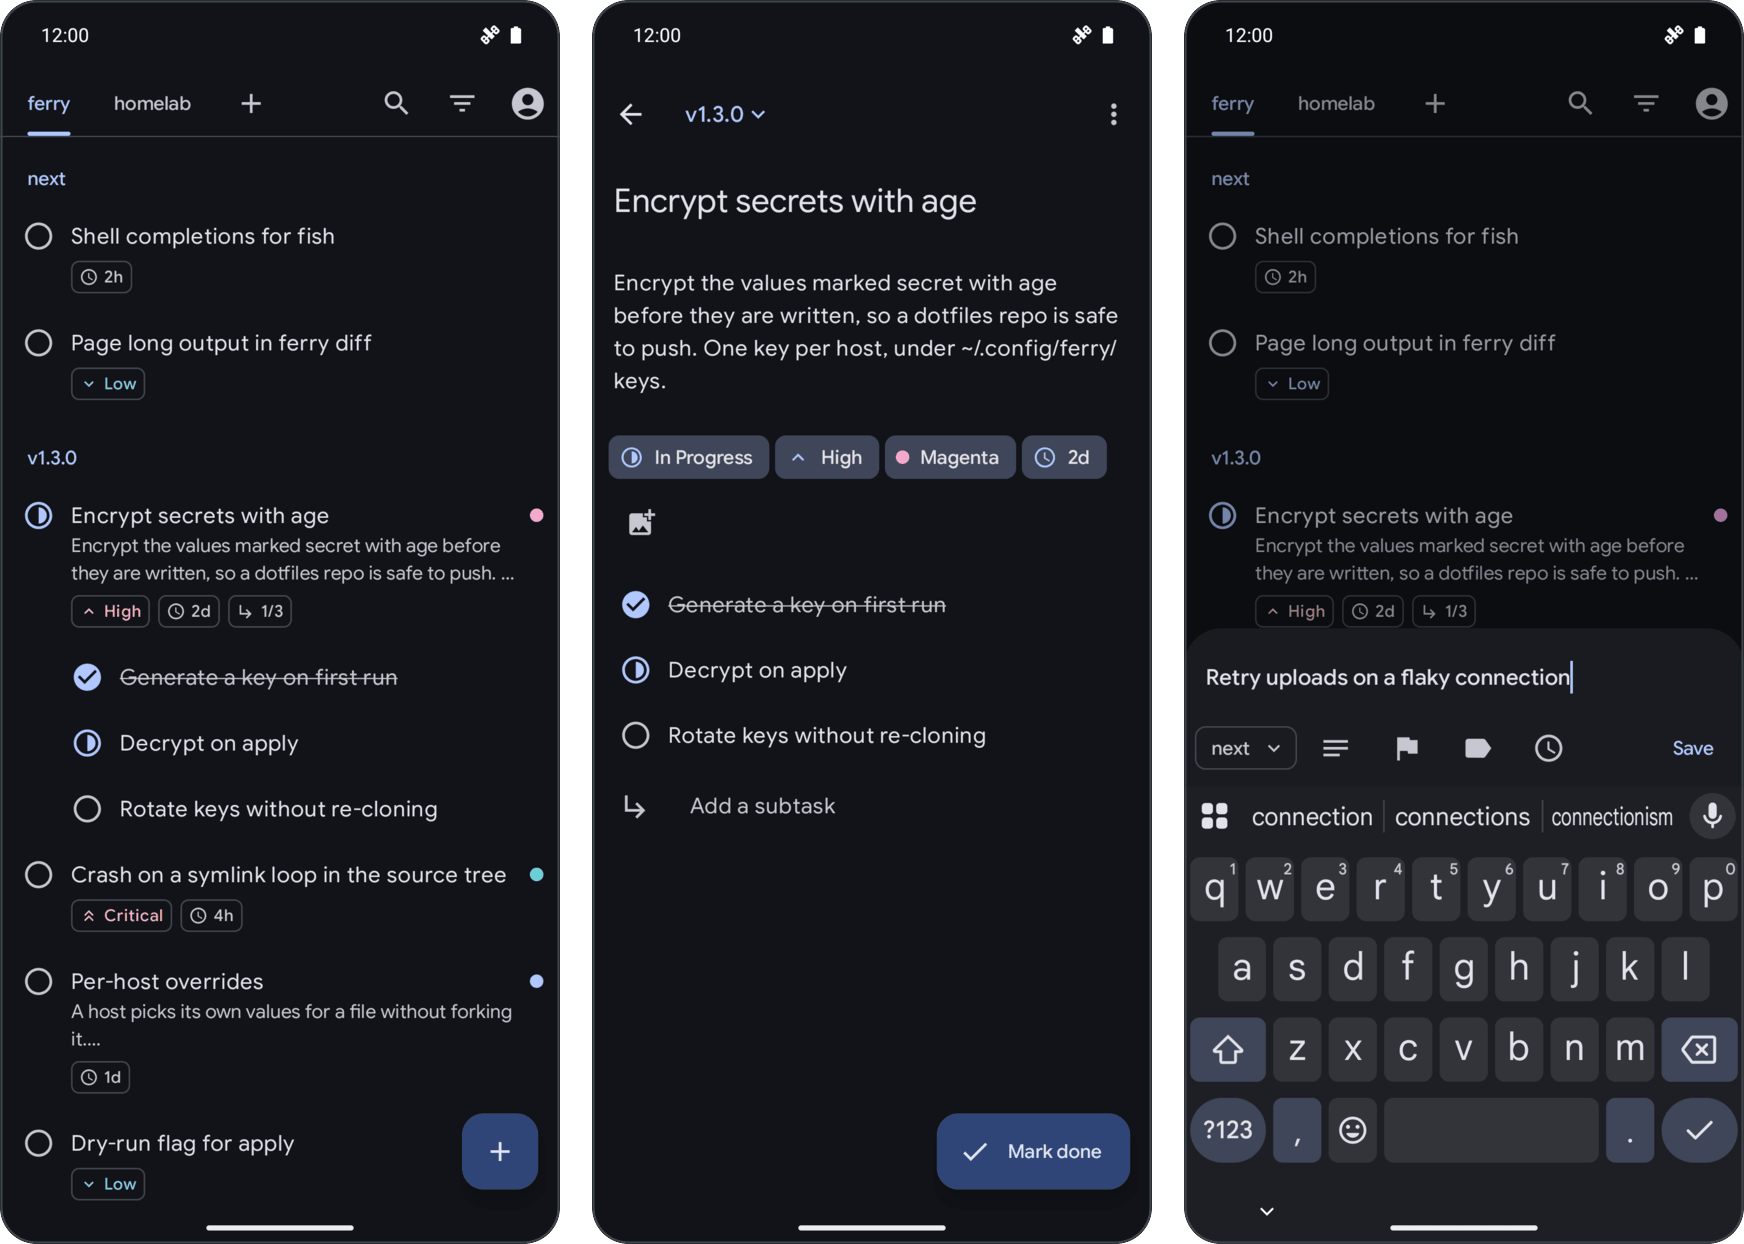
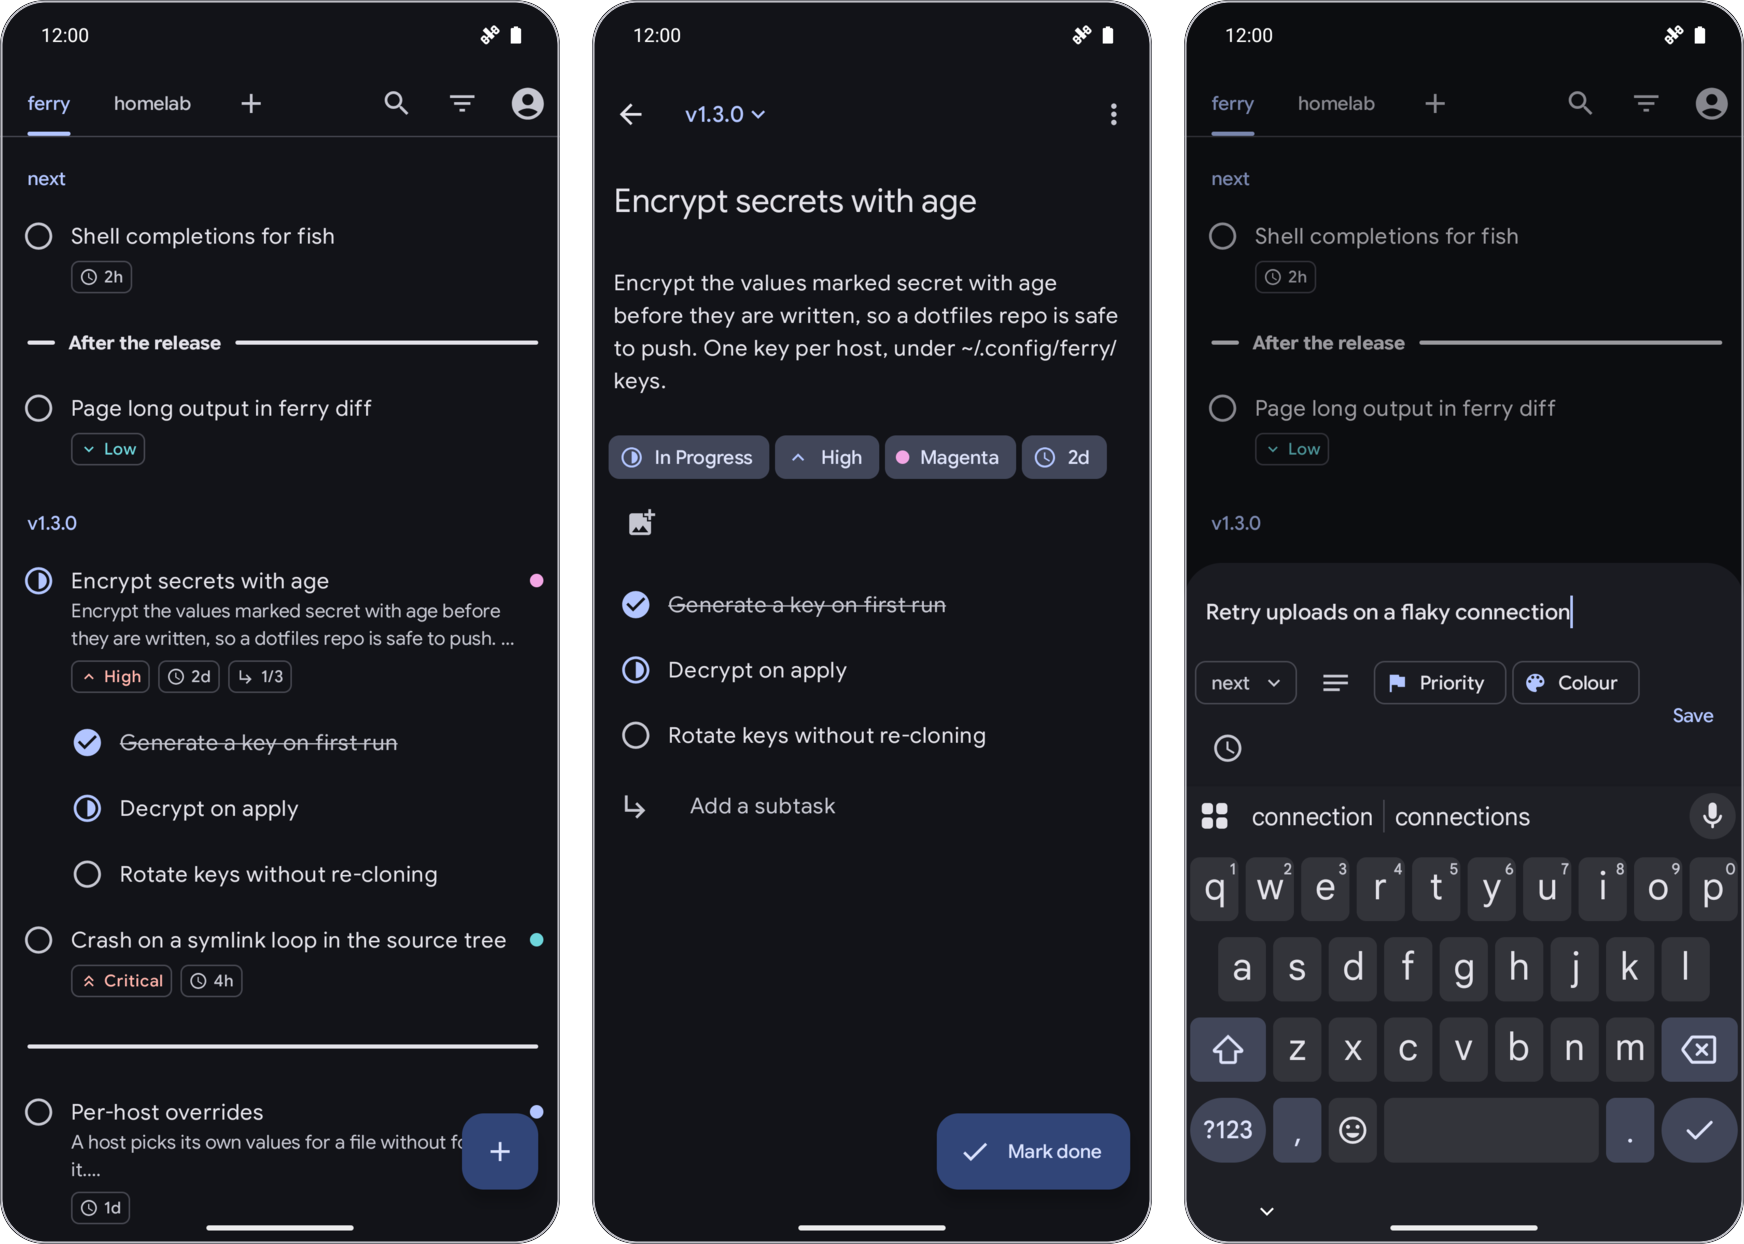
feat(native): terminal-style separators, worded priority and colour

diff --git a/native/android/app/src/main/java/io/github/ilyasturki/ordo/compose/ui/task/TaskScreen.kt b/native/android/app/src/main/java/io/github/ilyasturki/ordo/compose/ui/task/TaskScreen.kt
@@ -82,6 +82,7 @@ import io.github.ilyasturki.ordo.compose.ui.ViewerKey
 import io.github.ilyasturki.ordo.compose.ui.home.Picker
 import io.github.ilyasturki.ordo.compose.ui.home.StatusIcon
 import io.github.ilyasturki.ordo.compose.ui.home.TagDot
+import io.github.ilyasturki.ordo.compose.ui.home.WordChip
 import io.github.ilyasturki.ordo.compose.ui.home.plainFieldColors
 import io.github.ilyasturki.ordo.compose.ui.rememberFeedback
 import kotlinx.coroutines.Dispatchers
@@ -380,12 +381,12 @@ private fun Properties(
     val id = task.id
     val statusSet = task.status == Status.IN_PROGRESS || task.status == Status.CANCELLED
     @Composable
-    fun Field(key: String, set: Boolean, icon: androidx.compose.ui.graphics.vector.ImageVector, add: String, label: String, leading: @Composable () -> Unit, picker: @Composable () -> Unit) {
+    fun Field(key: String, set: Boolean, icon: androidx.compose.ui.graphics.vector.ImageVector, add: String, label: String, leading: @Composable () -> Unit, word: Boolean = false, picker: @Composable () -> Unit) {
         Box {
-            if (set) {
-                InputChip(selected = true, onClick = { setMenu(key) }, label = { Text(label) }, leadingIcon = leading)
-            } else {
-                IconButton(onClick = { setMenu(key) }) { Icon(icon, add, tint = MaterialTheme.colorScheme.onSurfaceVariant) }
+            when {
+                set -> InputChip(selected = true, onClick = { setMenu(key) }, label = { Text(label) }, leadingIcon = leading)
+                word -> WordChip(icon, add) { setMenu(key) }
+                else -> IconButton(onClick = { setMenu(key) }) { Icon(icon, add, tint = MaterialTheme.colorScheme.onSurfaceVariant) }
             }
             picker()
         }
@@ -398,10 +399,10 @@ private fun Properties(
         Field("status", statusSet, Icons.status(task.status), "Status: ${Status.label(task.status)}", Status.label(task.status), { Icon(Icons.status(task.status), null, Modifier.size(18.dp)) }) {
             Picker(menu == "status", { setMenu("") }, Status.all, Status::label, { edit(Ops.status(id, it), false) }, leading = { Icon(Icons.status(it), null) })
         }
-        Field("priority", task.priority != "", Icons.Flag, "Add a priority", Priority.label(task.priority), { Icon(Icons.priority(task.priority), null, Modifier.size(18.dp)) }) {
-            Picker(menu == "priority", { setMenu("") }, Priority.all + "", Priority::label, { edit(Ops.priority(id, it), true) })
+        Field("priority", task.priority != "", Icons.Flag, "Priority", Priority.label(task.priority), { Icon(Icons.priority(task.priority), null, Modifier.size(18.dp)) }, word = true) {
+            Picker(menu == "priority", { setMenu("") }, Priority.all + "", Priority::label, { edit(Ops.priority(id, it), true) }, leading = { if (it != "") Icon(Icons.priority(it), null) })
         }
-        Field("tag", task.tagColor != "", Icons.Label, "Add a tag", Tags.label(task.tagColor), { TagDot(task.tagColor) }) {
+        Field("tag", task.tagColor != "", Icons.Palette, "Colour", Tags.label(task.tagColor), { TagDot(task.tagColor) }, word = true) {
             Picker(menu == "tag", { setMenu("") }, Tags.all + "", Tags::label, { edit(Ops.tag(id, it), true) }, leading = { if (it != "") TagDot(it) })
         }
         Field("estimate", task.estimateMinutes > 0, Icons.Schedule, "Add an estimate", Estimates.format(task.estimateMinutes), { Icon(Icons.Schedule, null, Modifier.size(18.dp)) }) {

diff --git a/native/android/app/src/main/java/io/github/ilyasturki/ordo/compose/ui/home/Sheets.kt b/native/android/app/src/main/java/io/github/ilyasturki/ordo/compose/ui/home/Sheets.kt
@@ -17,6 +17,7 @@ import androidx.compose.foundation.text.KeyboardActions
 import androidx.compose.foundation.text.KeyboardOptions
 import androidx.compose.foundation.verticalScroll
 import androidx.compose.material3.AlertDialog
+import androidx.compose.material3.AssistChip
 import androidx.compose.material3.DropdownMenu
 import androidx.compose.material3.DropdownMenuItem
 import androidx.compose.material3.ExperimentalMaterial3Api
@@ -46,6 +47,7 @@ import androidx.compose.ui.Modifier
 import androidx.compose.ui.focus.FocusRequester
 import androidx.compose.ui.focus.focusRequester
 import androidx.compose.ui.graphics.Color
+import androidx.compose.ui.graphics.vector.ImageVector
 import androidx.compose.ui.text.TextRange
 import androidx.compose.ui.text.input.ImeAction
 import androidx.compose.ui.text.input.KeyboardCapitalization
@@ -168,6 +170,11 @@ fun deletedWith(project: Project, cat: Category): String {
         1 -> "Its sub-category and $taskWord go too."
         else -> "Its $subs sub-categories and $taskWord go too."
     }
+}
+
+@Composable
+fun WordChip(icon: ImageVector, word: String, onClick: () -> Unit) {
+    AssistChip(onClick, label = { Text(word) }, leadingIcon = { Icon(icon, null, Modifier.size(18.dp)) })
 }
 
 // Picks one value from a short list, anchored to what opened it.
@@ -297,15 +304,15 @@ fun AddSheet(entry: Entry, filter: Filter, initialCat: String, onDismiss: () -> 
                     }
                     Box {
                         if (priority == "") {
-                            IconButton(onClick = { menu = "priority" }) { Icon(Icons.Flag, "Priority", tint = MaterialTheme.colorScheme.onSurfaceVariant) }
+                            WordChip(Icons.Flag, "Priority") { menu = "priority" }
                         } else {
                             InputChip(selected = true, onClick = { menu = "priority" }, label = { Text(Priority.label(priority)) }, leadingIcon = { Icon(Icons.priority(priority), null, Modifier.size(18.dp)) })
                         }
-                        Picker(menu == "priority", { menu = "" }, listOf("") + Priority.all, Priority::label, { priority = it })
+                        Picker(menu == "priority", { menu = "" }, listOf("") + Priority.all, Priority::label, { priority = it }, leading = { if (it != "") Icon(Icons.priority(it), null) })
                     }
                     Box {
                         if (tag == "") {
-                            IconButton(onClick = { menu = "tag" }) { Icon(Icons.Label, "Tag", tint = MaterialTheme.colorScheme.onSurfaceVariant) }
+                            WordChip(Icons.Palette, "Colour") { menu = "tag" }
                         } else {
                             InputChip(selected = true, onClick = { menu = "tag" }, label = { Text(Tags.label(tag)) }, leadingIcon = { TagDot(tag) })
                         }

diff --git a/native/android/app/src/androidTest/java/io/github/ilyasturki/ordo/compose/AppTest.kt b/native/android/app/src/androidTest/java/io/github/ilyasturki/ordo/compose/AppTest.kt
@@ -129,6 +129,44 @@ class AppTest : AppFixture() {
     }
 
     @Test
+    fun anUnlabelledSeparatorOpensLikeALabelledOne() {
+        scrollTo("Research")
+        compose.onNodeWithText("Research").performClick()
+        compose.onNodeWithText("Add a separator").performClick()
+        compose.onNodeWithText("Add").performClick()
+        compose.waitUntilAtLeastOneExists(hasContentDescription("Separator"), 20_000)
+        compose.onNodeWithContentDescription("Separator").performClick()
+        compose.waitUntilAtLeastOneExists(hasText("Separator label"), 20_000)
+    }
+
+    @Test
+    fun theAddSheetNamesPriorityAndColourUntilTheyAreSet() {
+        compose.waitUntilAtLeastOneExists(hasContentDescription("Add a task"), 20_000)
+        compose.onNodeWithContentDescription("Add a task").performClick()
+        compose.onNodeWithText("Priority").performClick()
+        compose.onNodeWithText("Medium").performClick()
+        compose.onNodeWithText("Priority").assertDoesNotExist()
+        compose.onNodeWithText("Medium").assertExists()
+        compose.onNodeWithText("Colour").performClick()
+        compose.onNodeWithText("Green").performClick()
+        compose.onNodeWithText("Colour").assertDoesNotExist()
+        compose.onNodeWithText("Green").assertExists()
+    }
+
+    @Test
+    fun theTaskPageNamesPriorityAndColourUntilTheyAreSet() {
+        openTask("Drag to reorder")
+        compose.onNodeWithText("Colour").performClick()
+        compose.onNodeWithText("Cyan").performClick()
+        compose.waitUntil(20_000) { task("Drag to reorder")?.tagColor == "cyan" }
+        compose.onNodeWithText("Colour").assertDoesNotExist()
+        compose.onNodeWithText("Priority").performClick()
+        compose.onNodeWithText("High").performClick()
+        compose.waitUntil(20_000) { task("Drag to reorder")?.priority == "high" }
+        compose.onNodeWithText("Priority").assertDoesNotExist()
+    }
+
+    @Test
     fun theFilterRefusesASeparator() {
         runBlocking { engine.setFilter(PID, Filter(statuses = setOf("todo"))) }
         scrollTo("Research")
@@ -145,7 +183,7 @@ class AppTest : AppFixture() {
         compose.onNodeWithText("Clear the filter to add a task here").assertExists()
         compose.onNode(hasSetTextAction()).performTextInput("Water the plants")
         compose.onNodeWithText("Save").assertIsNotEnabled()
-        compose.onNodeWithContentDescription("Priority").performClick()
+        compose.onNodeWithText("Priority").performClick()
         compose.onNodeWithText("Medium").performClick()
         compose.onNodeWithText("Clear the filter to add a task here").assertDoesNotExist()
         compose.onNodeWithText("Save").performClick()

diff --git a/native/android/app/src/main/java/io/github/ilyasturki/ordo/compose/ui/home/Rows.kt b/native/android/app/src/main/java/io/github/ilyasturki/ordo/compose/ui/home/Rows.kt
@@ -19,7 +19,6 @@ import androidx.compose.foundation.layout.size
 import androidx.compose.foundation.layout.width
 import androidx.compose.foundation.shape.CircleShape
 import androidx.compose.foundation.shape.RoundedCornerShape
-import androidx.compose.material3.HorizontalDivider
 import androidx.compose.material3.Icon
 import androidx.compose.material3.IconButton
 import androidx.compose.material3.MaterialTheme
@@ -30,8 +29,11 @@ import androidx.compose.ui.Modifier
 import androidx.compose.ui.draw.alpha
 import androidx.compose.ui.graphics.Color
 import androidx.compose.ui.graphics.vector.ImageVector
+import androidx.compose.ui.semantics.contentDescription
+import androidx.compose.ui.semantics.semantics
 import androidx.compose.ui.text.SpanStyle
 import androidx.compose.ui.text.buildAnnotatedString
+import androidx.compose.ui.text.font.FontWeight
 import androidx.compose.ui.text.style.TextDecoration
 import androidx.compose.ui.text.style.TextOverflow
 import androidx.compose.ui.text.withStyle
@@ -178,20 +180,31 @@ private fun SeparatorRow(label: String, child: Boolean, onOpen: () -> Unit, modi
         modifier
             .fillMaxWidth()
             .clickable(onClick = onOpen)
+            .then(if (label == "") Modifier.semantics { contentDescription = "Separator" } else Modifier)
             .padding(start = if (child) 56.dp else 20.dp, end = 16.dp)
-            .height(40.dp),
+            .height(48.dp),
         verticalAlignment = Alignment.CenterVertically,
     ) {
         if (label != "") {
+            SeparatorRule(Modifier.width(20.dp))
+            Spacer(Modifier.width(10.dp))
             Text(
                 label,
-                style = MaterialTheme.typography.labelMedium,
-                color = MaterialTheme.colorScheme.onSurfaceVariant,
+                style = MaterialTheme.typography.titleSmall,
+                fontWeight = FontWeight.Bold,
+                color = MaterialTheme.colorScheme.onSurface,
+                maxLines = 1,
+                overflow = TextOverflow.Ellipsis,
             )
-            Spacer(Modifier.width(12.dp))
+            Spacer(Modifier.width(10.dp))
         }
-        HorizontalDivider(Modifier.weight(1f), color = MaterialTheme.colorScheme.outlineVariant)
+        SeparatorRule(Modifier.weight(1f))
     }
+}
+
+@Composable
+private fun SeparatorRule(modifier: Modifier) {
+    Box(modifier.height(3.dp).background(MaterialTheme.colorScheme.onSurface, CircleShape))
 }
 
 @Composable

diff --git a/native/android/app/src/main/java/io/github/ilyasturki/ordo/compose/ui/Icons.kt b/native/android/app/src/main/java/io/github/ilyasturki/ordo/compose/ui/Icons.kt
@@ -26,7 +26,7 @@ object Icons {
     val InProgress = icon("in_progress", "M12 2C6.48 2 2 6.48 2 12s4.48 10 10 10 10-4.48 10-10S17.52 2 12 2zm0 18c-4.42 0-8-3.58-8-8s3.58-8 8-8 8 3.58 8 8-3.58 8-8 8zm0-14v12c3.31 0 6-2.69 6-6s-2.69-6-6-6z")
     val Completed = icon("completed", "M12 2C6.48 2 2 6.48 2 12s4.48 10 10 10 10-4.48 10-10S17.52 2 12 2zm-2 15l-5-5 1.41-1.41L10 14.17l7.59-7.59L19 8l-9 9z")
     val Cancelled = icon("cancelled", "M12 2C6.47 2 2 6.47 2 12s4.47 10 10 10 10-4.47 10-10S17.53 2 12 2zm5 13.59L15.59 17 12 13.41 8.41 17 7 15.59 10.59 12 7 8.41 8.41 7 12 10.59 15.59 7 17 8.41 13.41 12 17 15.59z")
-    val Label = icon("label", "M17.63 5.84C17.27 5.33 16.67 5 16 5L5 5.01C3.9 5.01 3 5.9 3 7v10c0 1.1.9 1.99 2 1.99L16 19c.67 0 1.27-.33 1.63-.84L22 12l-4.37-6.16z")
+    val Palette = icon("palette", "M12 3c-4.97 0-9 4.03-9 9s4.03 9 9 9c.83 0 1.5-.67 1.5-1.5 0-.39-.15-.74-.39-1.01-.23-.26-.38-.61-.38-.99 0-.83.67-1.5 1.5-1.5H16c2.76 0 5-2.24 5-5 0-4.42-4.03-8-9-8zm-5.5 9c-.83 0-1.5-.67-1.5-1.5S5.67 9 6.5 9 8 9.67 8 10.5 7.33 12 6.5 12zm3-4C8.67 8 8 7.33 8 6.5S8.67 5 9.5 5s1.5.67 1.5 1.5S10.33 8 9.5 8zm5 0c-.83 0-1.5-.67-1.5-1.5S13.67 5 14.5 5s1.5.67 1.5 1.5S15.33 8 14.5 8zm3 4c-.83 0-1.5-.67-1.5-1.5S16.67 9 17.5 9s1.5.67 1.5 1.5-.67 1.5-1.5 1.5z")
     val Flag = icon("flag", "M14.4 6L14 4H5v17h2v-7h5.6l.4 2h7V6z")
     val Logout = icon("logout", "M17 7l-1.41 1.41L18.17 11H8v2h10.17l-2.58 2.58L17 17l5-5zM4 5h8V3H4c-1.1 0-2 .9-2 2v14c0 1.1.9 2 2 2h8v-2H4V5z")
     val QrScanner = icon("qr", "M9.5 6.5v3h-3v-3h3M11 5H5v6h6V5zm-1.5 9.5v3h-3v-3h3M11 13H5v6h6v-6zm6.5-6.5v3h-3v-3h3M19 5h-6v6h6V5zm-6 8h1.5v1.5H13V13zm1.5 1.5H16V16h-1.5v-1.5zM16 13h1.5v1.5H16V13zm-3 3h1.5v1.5H13V16zm1.5 1.5H16V19h-1.5v-1.5zM16 16h1.5v1.5H16V16zm1.5-1.5H19V16h-1.5v-1.5zm0 3H19V19h-1.5v-1.5zM22 7h-2V4h-3V2h5v5zm0 15v-5h-2v3h-3v2h5zM2 22h5v-2H4v-3H2v5zM2 2v5h2V4h3V2H2z")

diff --git a/CHANGELOG.md b/CHANGELOG.md
@@ -14,6 +14,8 @@ All notable changes to ordo are listed here. The format follows [Keep a Changelo
 - The `(N hidden by the filter)` row stays while it shows those tasks and reads `(hide the N filtered out)`: `enter` or `space` on it hides them again with the cursor on it, and so does `esc` from anywhere in the category. Leaving the category still hides them, and the saved filter never changes
 - The project picker lists the most recently used project first, where it was alphabetical or in a hand-made order. A project is as recent as the later of its last open on this device and its last edit anywhere, one never opened here counts by its last edit, and a tie falls to the name. `J` and `K` no longer reorder the picker, and `state.json` drops `project_order` for `last_opened`, so an older file still loads. `ordo project list` and completion stay alphabetical
 - The app's project tabs follow the same order, by the later of the last time you had a project open or edited it on the phone and its last edit anywhere. The order is set when the app starts and each time it comes back to the front, and stays put in between: opening, editing or syncing a project never moves a tab under your finger, and a project that appears meanwhile goes last
+- The Android app draws a separator like the terminal does, a thick rule with a short lead before a bold label, in full contrast
+- The Android app's add sheet and task page say "Priority" and "Colour" beside their icons until a value is set, the colour control takes a palette icon instead of a label shape, and the priority menu shows each level's arrows
 
 ### Removed
 
